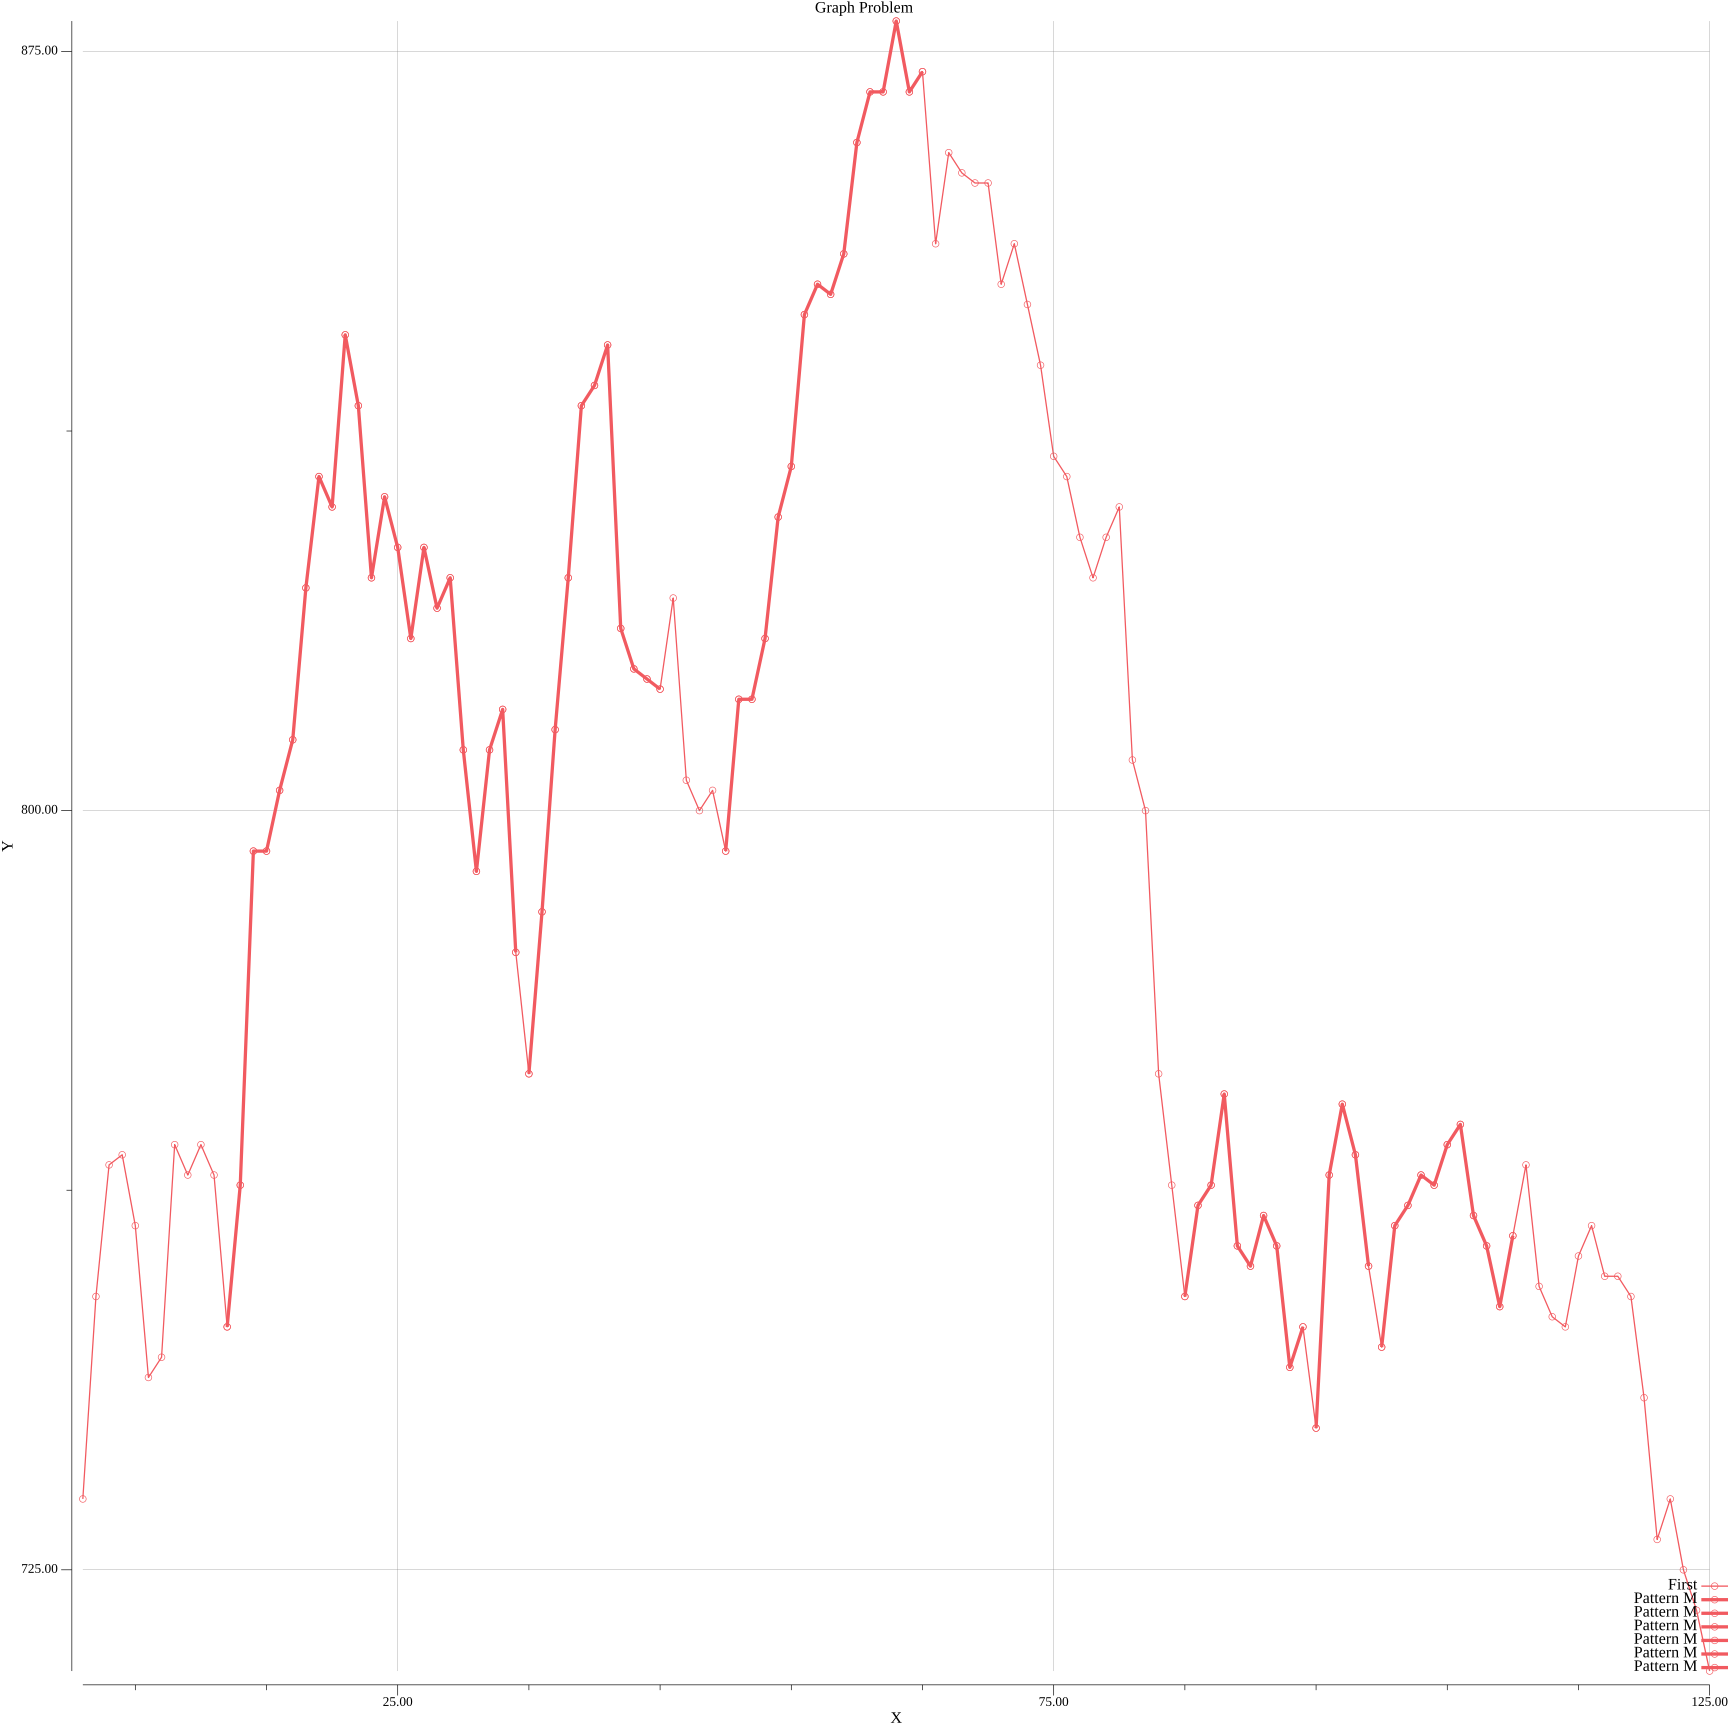
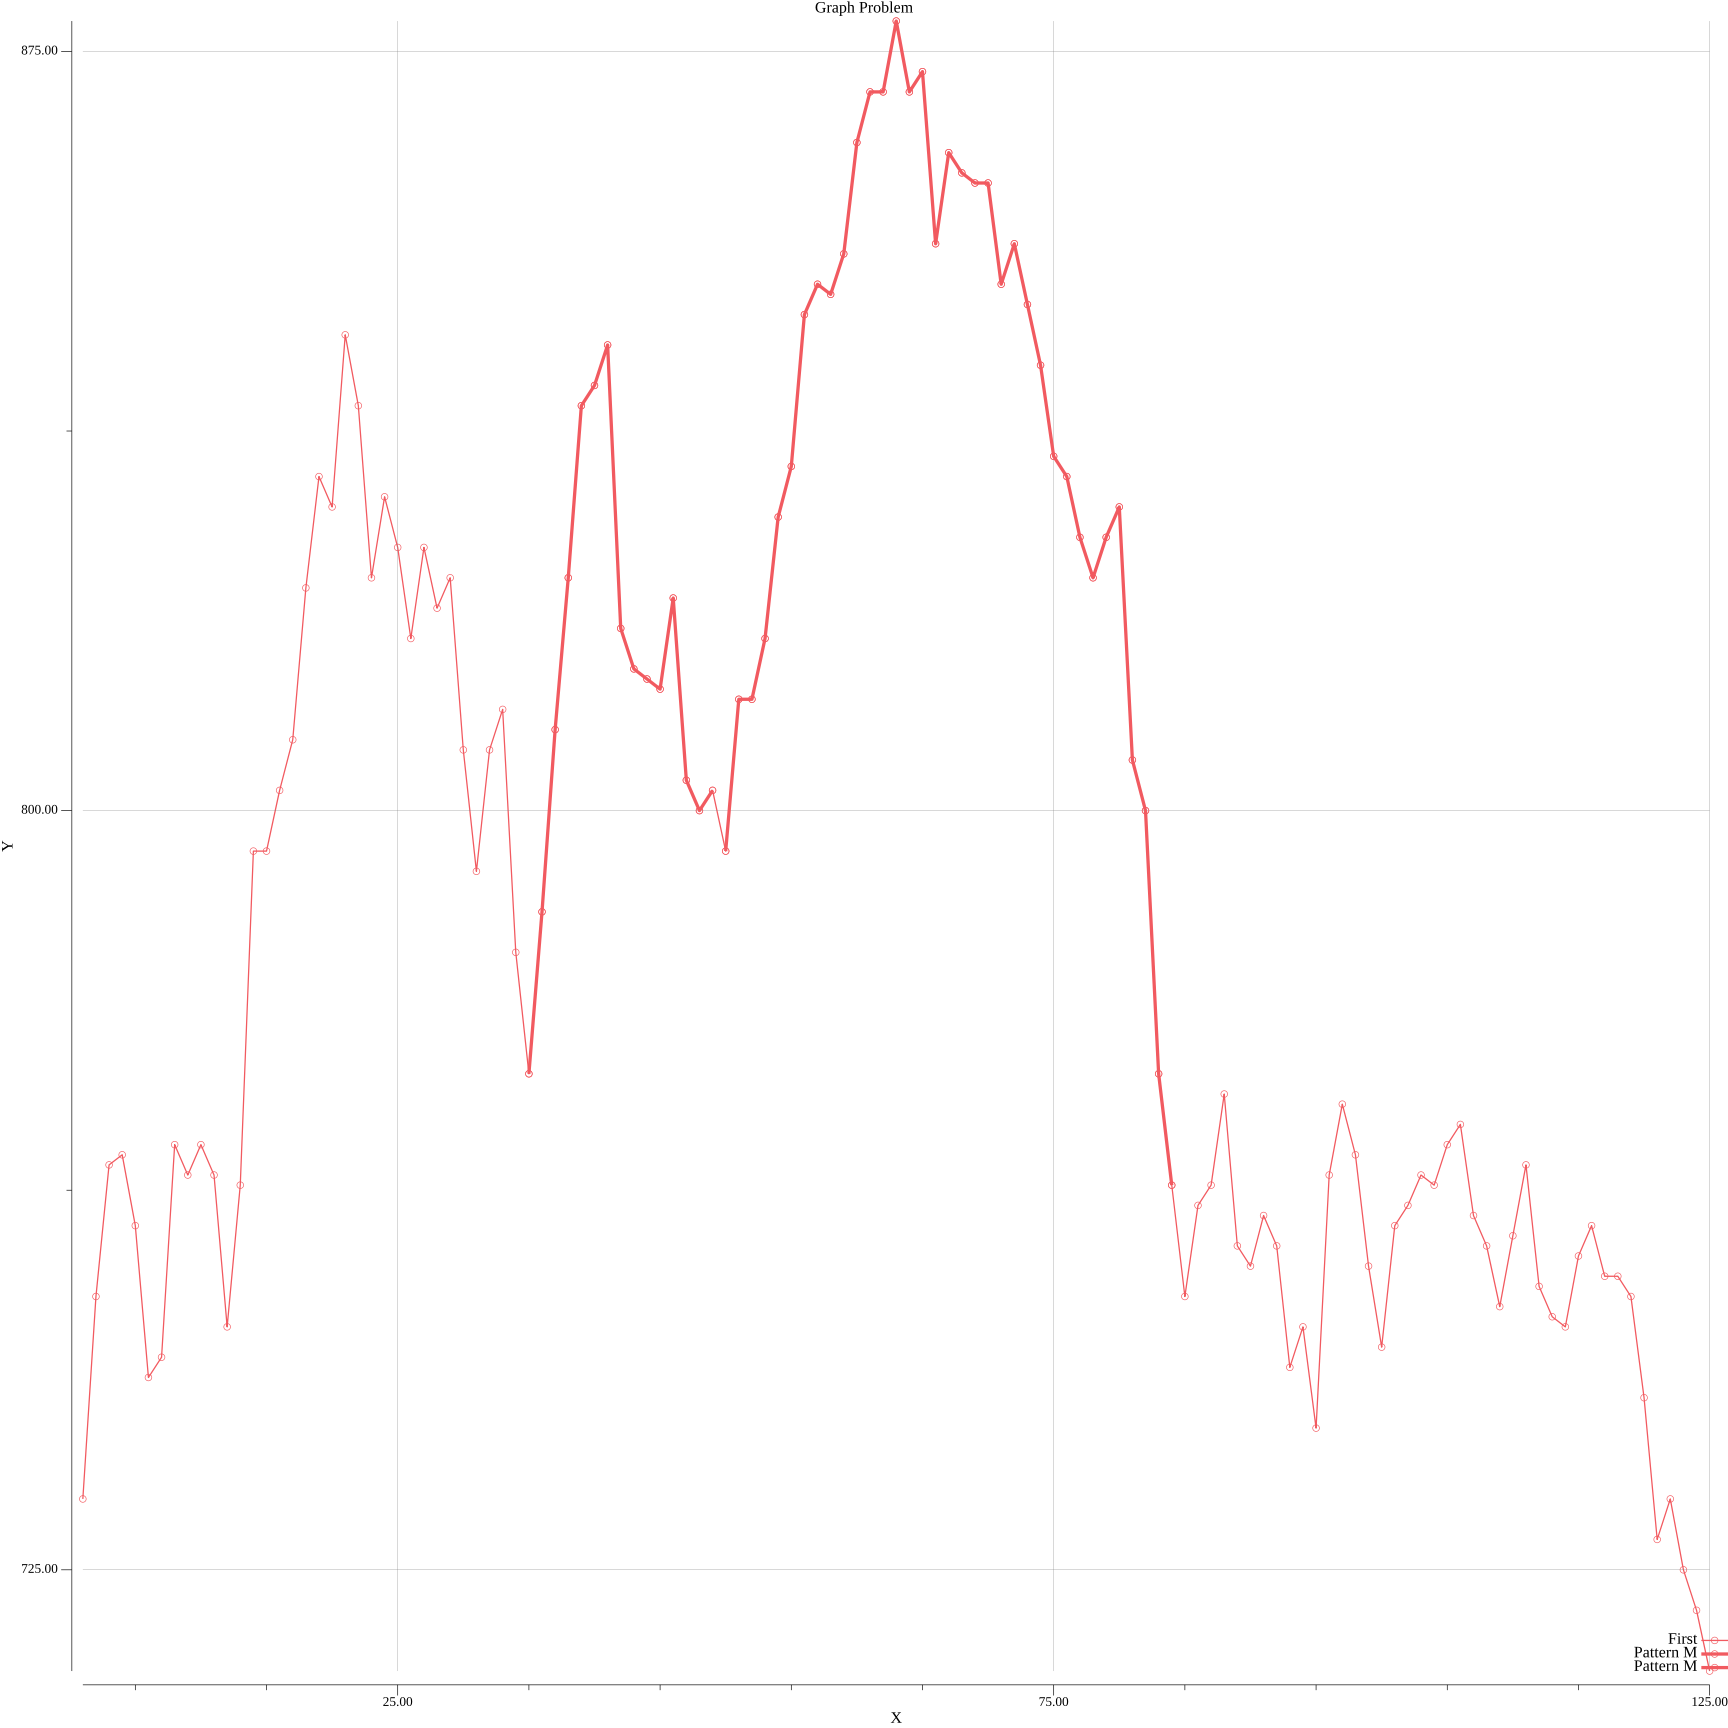
Latest

diff --git a/Semicircle/Semicircle.go b/Semicircle/Semicircle.go
@@ -5,7 +5,9 @@ import (
 	"fmt"
 	"os"
 	"strconv"
+	"y/Structs_for_patterns"
 	"y/pattern_up"
+	"y/utils"
 )
 
 type Lettersemicricle struct {
@@ -16,88 +18,73 @@ type Lettersemicricle struct {
 //1.changing the method to find peaks and troughs.
 //2.after matching he pattern upward and then downward
 //3.then matching starting and ending point's value are same or euivalent and if yes then declaring the points as semicircle.
-func (l *Lettersemicricle) Pattern() {
+func (l *Lettersemicricle) Pattern() ([]int, []int, int, bool) {
 	a := Peaks(l.T)
-	fmt.Println("Peaks =", a)
 	b := Troughs(l.T)
-	fmt.Println("Troughs =", b)
-	// l.P = []string{"Upward", "Downward", "Upward", "Downward"}
-	var a1 [][]int
-	var a2 []int
+	fmt.Println("Peaks", a)
+	fmt.Println("Troughs", b)
+	var a1 []pattern_up.Date
+	var b1 []pattern_up.Date
 
-	for _, j := range a {
-		a1 = append(a1, []int{l.T[j].Value, l.T[j].Value})
-		a2 = append(a2, l.T[j].Value)
+	for _, i := range a {
+		a1 = append(a1, l.T[i])
 	}
-	a3 := MinMax(a2)
-	fmt.Println("Max value of peaks =", a3)
-	// fmt.Println("Count =", count)
+	for _, i := range b {
+		b1 = append(b1, l.T[i])
+	}
 
-}
-func MinMax(array []int) int {
-	var max int = array[0]
-	var min int = array[0]
-	for _, value := range array {
-		if max < value {
-			max = value
-		}
-		if min > value {
-			min = value
+	var i1 []string
+	var w1 []int
+	for i := range a {
+		w1 = append(w1, a[i])
+	}
+	for i := range b {
+		w1 = append(w1, b[i])
+	}
+	w2 := utils.Sort(w1) //mixed values
+	var i2 []int
+	for _, i := range w2 {
+		if pattern_up.P_up(l.T[i : i+2]) {
+			i1 = append(i1, "Upward")
+			i2 = append(i2, i)
+
+		} else {
+			i1 = append(i1, "Downward")
+			i2 = append(i2, i)
 		}
 	}
-	return max
-}
+	var bol bool
+	fmt.Println("Mix =", w2)
+	for _, j := range w2 {
+		fmt.Println("Mix =", l.T[j])
+	}
+	fmt.Println("main Pattern =", l.P)
+	fmt.Println("Pattern =", i1)
+	var start []int
+	var end []int
+	var count int
+	for i := range i1 {
+		if i1[i] == "Upward" && i != len(i1)-1 {
 
-// type Date struct {
-// 	Index int
-// 	Date  string
-// 	Value int
-// }
+			if i1[i+1] == "Downward" && i+1 != len(i1)-1 {
 
-func P_up(pts []pattern_up.Date) (a bool) { //pts [][]int
+				count = count + 1
+				fmt.Println("Count =", count)
+				fmt.Println("Starting Point =", l.T[i2[i]])
+				fmt.Println("Ending Point =", l.T[i2[i+1]+1])
 
-	var b bool = false
-	for i := range pts {
-		if len(pts) != 1 {
-			if pts[i].Value < pts[i+1].Value && pts[i+1].Date != pts[len(pts)-1].Date {
-				continue
-			} else if pts[i].Value < pts[i+1].Value && pts[i+1].Date == pts[len(pts)-1].Date {
-				//fmt.Println("Down trend breaks here", pts[i+1])
-				b = true
-				break
-			} else {
-				b = false
-				break
+				start = append(start, i2[i])
+				end = append(end, i2[i+1+1])
+				bol = true
+
 			}
-		} else {
-			b = true
-			break
+
 		}
 
 	}
-	return b
+	// fmt.Println("Count =", count)
+	return start, end, count, bol
 }
-
-func P_down(pts []pattern_up.Date) (a bool) {
-	var b bool = false
-	for i := range pts {
-		if pts[i].Value > pts[i+1].Value && pts[i+1].Date != pts[len(pts)-1].Date {
-			continue
-		} else if pts[i].Value > pts[i+1].Value && pts[i+1].Date == pts[len(pts)-1].Date {
-			//fmt.Println("Down trend breaks here", pts[i+1])
-			b = true
-			break
-		} else {
-			b = false
-			break
-		}
-	}
-	return b
-}
-
-//return all peaks
-//from that point previous point be lesser and next point be also lesser than itself.
-//last four and next four points should be lesser than the peak point.
 func Peaks(pts []pattern_up.Date) (a []int) {
 	var b []int
 	for i := range pts {
@@ -109,8 +96,33 @@ func Peaks(pts []pattern_up.Date) (a []int) {
 			if pts[i-2].Value < pts[i].Value && pts[i+2].Value < pts[i].Value && pts[i-2] != pts[0] && pts[i+2] != pts[len(pts)-1] {
 				if pts[i-3].Value < pts[i].Value && pts[i+3].Value < pts[i].Value && pts[i-3] != pts[0] && pts[i+3] != pts[len(pts)-1] {
 					if pts[i+4].Value < pts[i].Value && pts[i-4].Value < pts[i].Value && pts[i-4] != pts[0] && pts[i+4] != pts[len(pts)-1] {
-						b = append(b, i)
-						continue
+						if pts[i+5].Value < pts[i].Value && pts[i-5].Value < pts[i].Value && pts[i-5] != pts[0] && pts[i+5] != pts[len(pts)-1] {
+							if pts[i+6].Value < pts[i].Value && pts[i-6].Value < pts[i].Value && pts[i-6] != pts[0] && pts[i+6] != pts[len(pts)-1] {
+								if pts[i+7].Value < pts[i].Value && pts[i-7].Value < pts[i].Value && pts[i-7] != pts[0] && pts[i+7] != pts[len(pts)-1] {
+									if pts[i+8].Value < pts[i].Value && pts[i-8].Value < pts[i].Value && pts[i-8] != pts[0] && pts[i+8] != pts[len(pts)-1] {
+										if pts[i+9].Value < pts[i].Value && pts[i-9].Value < pts[i].Value && pts[i-9] != pts[0] && pts[i+9] != pts[len(pts)-1] {
+											b = append(b, i)
+											continue
+
+										} else {
+											continue
+										}
+
+									} else {
+										continue
+									}
+
+								} else {
+									continue
+								}
+
+							} else {
+								continue
+							}
+
+						} else {
+							continue
+						}
 
 					} else {
 						continue
@@ -128,8 +140,6 @@ func Peaks(pts []pattern_up.Date) (a []int) {
 	return b
 }
 
-//return all throughs
-//from that point previous point be greater and next point be also greater than itself.
 func Troughs(pts []pattern_up.Date) (a []int) {
 	var b []int
 	for i := range pts {
@@ -141,8 +151,17 @@ func Troughs(pts []pattern_up.Date) (a []int) {
 			if pts[i-2].Value > pts[i].Value && pts[i+2].Value > pts[i].Value && pts[i-2] != pts[0] && pts[i+2] != pts[len(pts)-1] {
 				if pts[i-3].Value > pts[i].Value && pts[i+3].Value > pts[i].Value && pts[i-3] != pts[0] && pts[i+3] != pts[len(pts)-1] {
 					if pts[i+4].Value > pts[i].Value && pts[i-4].Value > pts[i].Value && pts[i-4] != pts[0] && pts[i+4] != pts[len(pts)-1] {
-						b = append(b, i)
-						continue
+						if pts[i+5].Value > pts[i].Value && pts[i-5].Value > pts[i].Value && pts[i-5] != pts[0] && pts[i+5] != pts[len(pts)-1] {
+							if pts[i+6].Value > pts[i].Value && pts[i-6].Value > pts[i].Value && pts[i-6] != pts[0] && pts[i+6] != pts[len(pts)-1] {
+								b = append(b, i)
+								continue
+
+							} else {
+								continue
+							}
+						} else {
+							continue
+						}
 					} else {
 						continue
 					}
@@ -160,34 +179,6 @@ func Troughs(pts []pattern_up.Date) (a []int) {
 
 }
 
-//0 {11,100}
-
-//finding semi circle by coding by all the peaks and troughs and p_up p_down functions using.
-func main() {
-	date := Getdata()
-	// p1 := []string{"Upward", "Downward"}
-	// w := &Lettersemicricle{date, p1}
-
-	a := Peaks(date)
-	fmt.Println("Peaks =", a)
-	b := Troughs(date)
-	fmt.Println("Troughs =", b)
-	// l.P = []string{"Upward", "Downward", "Upward", "Downward"}
-	var a1 [][]int
-	var a2 []int
-
-	for _, j := range a {
-		a1 = append(a1, []int{date[j].Index, date[j].Value})
-		a2 = append(a2, date[j].Value)
-	}
-	a3 := MinMax(a2)
-	fmt.Println("Max value of peaks =", a3)
-	for _, j := range a {
-		if a3 == date[j].Value {
-			fmt.Println("Max value's index  =", j)
-		}
-	}
-}
 func Getdata() []pattern_up.Date {
 	f, err := os.Open("/home/tatva.j@ah.zymrinc.com/Desktop/go-graph/Generic/s1.csv")
 	if err != nil {
@@ -209,4 +200,12 @@ func Getdata() []pattern_up.Date {
 		date = append(date, pattern_up.Date{Index, row[0], b})
 	}
 	return date
+}
+func main() {
+	date := Getdata()
+	p1 := []string{"Upward", "Downward"}
+	w := &Lettersemicricle{date, p1}
+	a, b, c, _ := Structs_for_patterns.Find(w)
+
+	utils.Plot1(date, c, a, b)
 }
